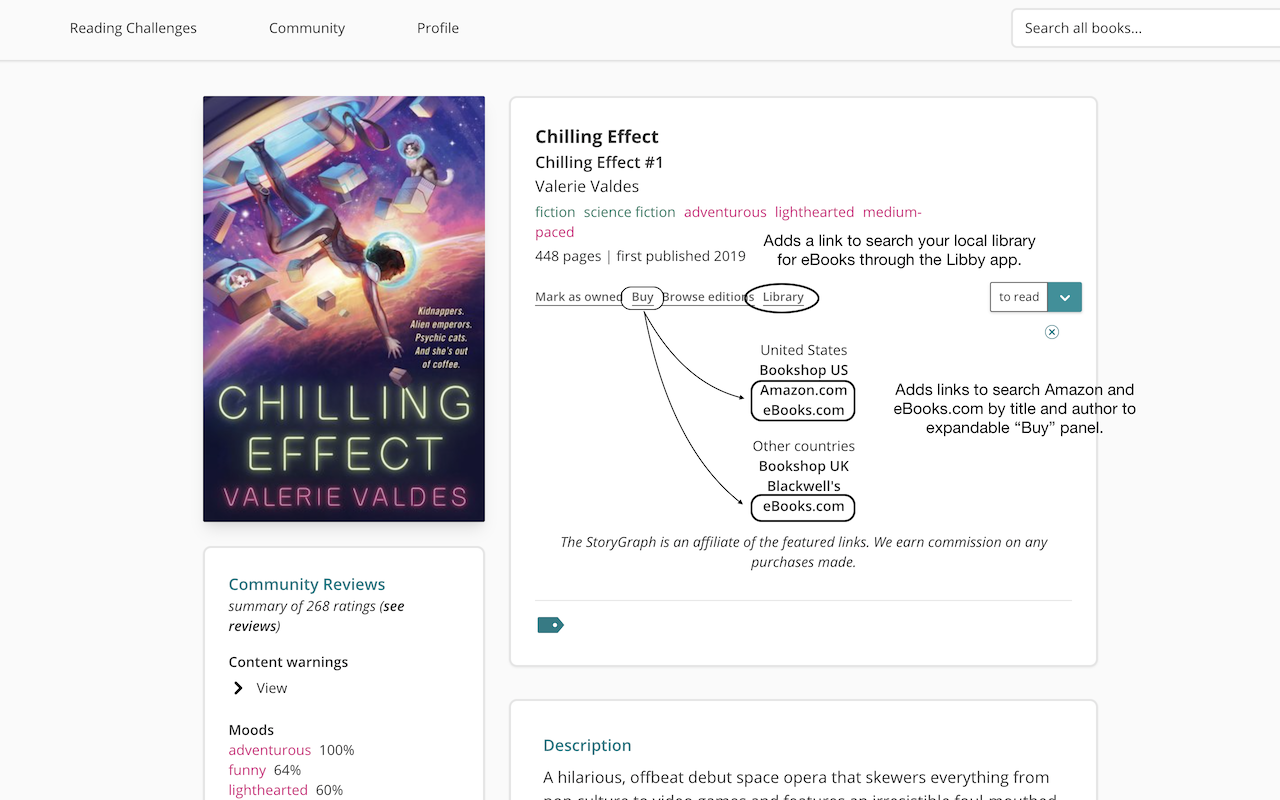
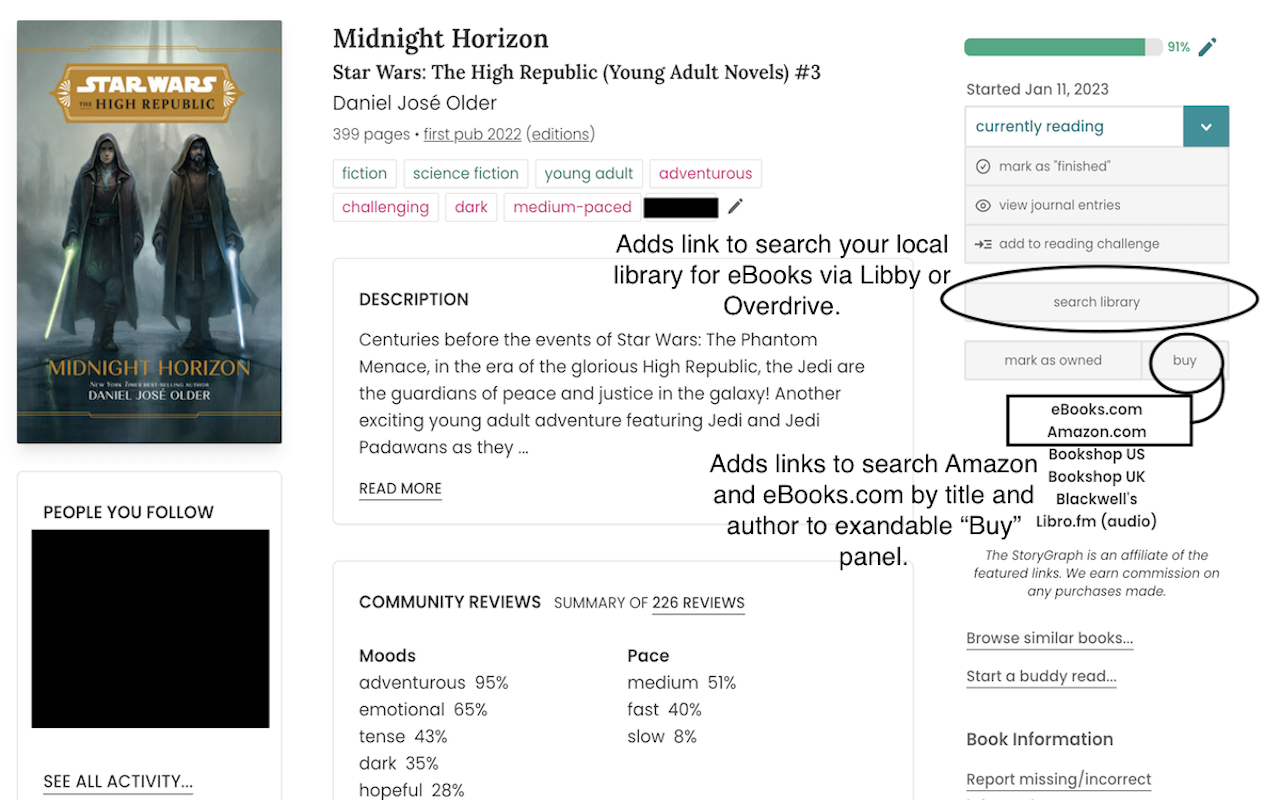
Update for new theming dark mode (#16)
* Update for new StoryGraph theming, including dark mode

* Resize screenshots

diff --git a/src/book-pane-links.js b/src/book-pane-links.js
@@ -4,17 +4,19 @@
     const OVERDRIVE_PLATFORM = 'overdrive';
     const DEFAULT_LIBRARY_PLATFORM = OVERDRIVE_PLATFORM;
 
-    const BOOK_PANE_SELECTOR = '.book-pane[data-book-id]';
+    const BOOK_INFO_CLASSNAME = 'book-title-author-and-series';
 
-    const ACTION_LINK_SELECTOR = 'book-action-links';
-    const LIBBY_LINK_SELECTOR = 'libby-link';
-    const LIBBY_LINK_CLASSES = `${LIBBY_LINK_SELECTOR} text-xs cursor-pointer hover:text-cyan-700 border-b`;
-    const LIBBY_LINK_TEXT = 'Library';
+    const ACTION_MENU_SELECTOR = 'action-menu';
+    const LIBRARY_LINK_SELECTOR = 'library-link';
+    const LIBRARY_LINK_TEXT = 'search library';
+
+    const OWNED_LINK_CLASSNAME = 'remove-from-owned-link';
+    const MARK_AS_OWNED_LINK_CLASSNAME = 'mark-as-owned-link';
 
     const BUY_LINK_CLASSES = 'font-semibold hover:text-cyan-700';
     const DEFAULT_AMAZON_DOMAIN = '.com';
     const AMAZON_LINK_SELECTOR = 'amazon-link';
-    const BUY_LINK_SELECTOR = 'buy-book-pane';
+    const BUY_LINK_SELECTOR = 'affiliate-links';
     const AMAZON_LINK_CLASSES = `${AMAZON_LINK_SELECTOR} ${BUY_LINK_CLASSES}`;
     const amazonLinkText = (amazonDomain) => `Amazon${amazonDomain}`;
 
@@ -37,11 +39,12 @@
     };
 
     const getBookData = (bookPane) => {
-        const title = bookPane.getElementsByTagName('h3')[0].innerText;
-        const author = bookPane.getElementsByClassName('mb-1 text-xs')[0].innerText;
+        const info = bookPane.getElementsByClassName(BOOK_INFO_CLASSNAME)[0].innerText.split('\n').map(data => data.trim()).filter(data => data);
+        const title = info[0];
+        const author = info.length == 3 ? info[2] : info[1];
         return {
-            title: title,
-            author: author,
+            title: title.trim(),
+            author: author.trim(),
         };
     }
 
@@ -52,15 +55,33 @@
 
     const appendLibraryLink = (bookPane, { libraryPlatform, libraryName }, bookData) => {
         const linkBuilder = libraryLinkBuilder[libraryPlatform];
-        const libbyLink = buildLinkElement({
-            url: linkBuilder({ libraryName: libraryName, ...bookData }),
-            text: LIBBY_LINK_TEXT,
-            classNames: LIBBY_LINK_CLASSES,
-        });
 
-        [...bookPane.getElementsByClassName(ACTION_LINK_SELECTOR)].forEach(links => {
-            if (links.getElementsByClassName(LIBBY_LINK_SELECTOR).length) return;
-            links.append(libbyLink)
+        const originalContainer = bookPane.getElementsByClassName(MARK_AS_OWNED_LINK_CLASSNAME)
+            ? bookPane.getElementsByClassName(MARK_AS_OWNED_LINK_CLASSNAME)[0]?.parentElement?.parentElement
+            : bookPane.getElementsByClassName(OWNED_LINK_CLASSNAME)[0]?.parentElement?.parentElement;
+        
+        if (!originalContainer) return;
+
+        const container = originalContainer.cloneNode(true);
+        container.removeChild(container.children[1]);
+        container.children[0].classList.remove('col-span-2');
+        container.children[0].classList.add('col-span-3');
+        const link = container.getElementsByTagName('a')[0];
+        link.classList.remove(MARK_AS_OWNED_LINK_CLASSNAME);
+        link.classList.remove(OWNED_LINK_CLASSNAME);
+        link.classList.add(LIBRARY_LINK_SELECTOR);
+        link.setAttribute('aria-label', LIBRARY_LINK_TEXT);
+        link.title = LIBRARY_LINK_TEXT;
+        link.href = linkBuilder({ libraryName: libraryName, ...bookData });
+        link.removeAttribute('data-remote');
+        link.removeAttribute('rel');
+        link.removeAttribute('data-method');
+        link.setAttribute('target', '_blank');
+        link.getElementsByTagName('span')[0].innerText = LIBRARY_LINK_TEXT;
+
+        [...bookPane.getElementsByClassName(ACTION_MENU_SELECTOR)].forEach(links => {
+            if (links.getElementsByClassName(LIBRARY_LINK_SELECTOR).length) return;
+            links.getElementsByClassName('mark-as-owned-link')[0].parentElement.parentElement.insertAdjacentElement('beforebegin', container);
         });
     };
 
@@ -103,7 +124,7 @@
         ebooksSearchSettings: { ebooksSearchLinksEnabled },
     }) => {
         const { libraryLinksEnabled } = librarySettings;
-        if (!libraryLinksEnabled) removeLinks(LIBBY_LINK_SELECTOR);
+        if (!libraryLinksEnabled) removeLinks(LIBRARY_LINK_SELECTOR);
         if (!amazonSearchLinksEnabled) removeLinks(AMAZON_LINK_SELECTOR);
         if (!ebooksSearchLinksEnabled) removeLinks(EBOOKS_LINK_SELECTOR);
 
@@ -119,7 +140,7 @@
         });
     };
 
-    const getAllBookPanes = () => document.querySelectorAll(BOOK_PANE_SELECTOR);
+    const getAllBookPanes = () => [...document.getElementsByClassName(BOOK_INFO_CLASSNAME)].map(info => info.parentElement.parentElement);
 
     const removeLinks = (selector) => {
         const allLinks = document.getElementsByClassName(selector);

diff --git a/docs/CHANGELOG.md b/docs/CHANGELOG.md
@@ -5,6 +5,12 @@ All notable changes to this project will be documented in this file.
 The format is based on [Keep a Changelog](https://keepachangelog.com/en/1.0.0/),
 and this project adheres to [Semantic Versioning](https://semver.org/spec/v2.0.0.html).
 
+## [4.0.0] - 2023-01-18
+
+### Fixed
+
+- Updated all features to match new StoryGraph theming, including new dark mode
+
 ## [3.0.0] - 2022-07-21
 
 ### Fixed
